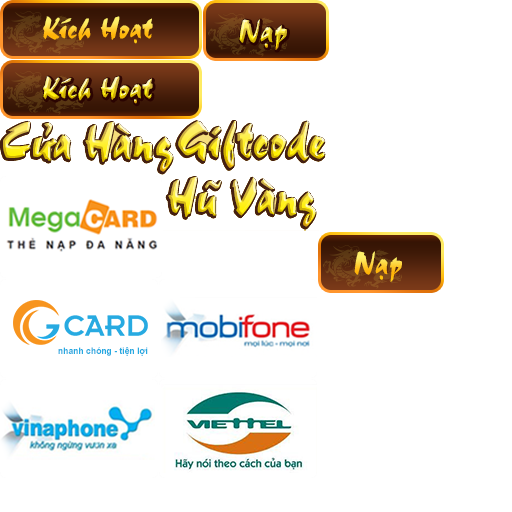
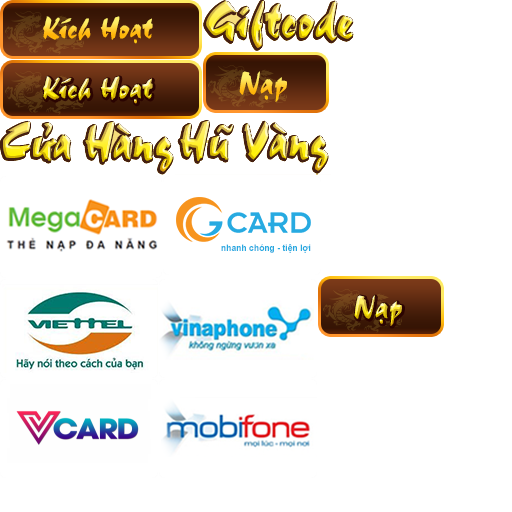
Add dynamic card to charge

Changed region(s): [[0.0, 0.0, 0.875, 0.7188], [0.0, 0.75, 0.625, 0.9375]]

diff --git a/Classes/MainScene.cpp b/Classes/MainScene.cpp
@@ -968,6 +968,7 @@ void MainScene::onChangeMoneyType(int type)
 
 void MainScene::initPopupCharge()
 {
+	strProviders = Utils::getSingleton().dynamicConfig.CashValue;
 	bool pmE = Utils::getSingleton().ispmE();
 
 	popupCharge = createPopup("title_naptien.png", true, true);
@@ -1044,7 +1045,6 @@ void MainScene::initPopupCharge()
 	ui::EditBox* tfSeri = ui::EditBox::create(Size(350, 55), "box.png", ui::Widget::TextureResType::PLIST);
 	ui::EditBox* tfCode = ui::EditBox::create(Size(350, 55), "box.png", ui::Widget::TextureResType::PLIST);
 	ui::ScrollView* scrollProvider = ui::ScrollView::create();
-	vector<string> strProviders = { "viettel", "mobifone", "vinaphone", "megacard", "gcard" };
 
 	int x = -420;
 	int y = 180;
@@ -1078,9 +1078,10 @@ void MainScene::initPopupCharge()
 					//popupCharge->getChildByName("providerimg" + to_string(i))->setVisible(true);
 				}
 			} else if (i == 1) {
+				scrollProvider->scrollToLeft(.3f, true);
 				scrollProvider->setVisible(true);
 				nodeMoneyType->setPosition(-220, 20);
-				for (int i = 1; i <= 3; i++) {
+				for (int i = 1; i <= 3 && i <= strProviders.size(); i++) {
 					scrollProvider->getChildByName("btn" + to_string(i))->setVisible(true);
 					//popupCharge->getChildByName("providerimg" + to_string(i))->setVisible(true);
 				}
@@ -1116,7 +1117,7 @@ void MainScene::initPopupCharge()
 	smsContent = Utils::getSingleton().replaceString(smsContent, "uid", to_string(Utils::getSingleton().userDataMe.UserID));
 	for (int i = 1; i <= strProviders.size(); i++) {
 		string stri = to_string(i);
-		string strimg = "provider" + stri + ".png";
+		string strimg = strProviders[i-1] + ".png";
 		/*Sprite* sp = Sprite::create();
 		if (textures.size() == 8) {
 			sp->initWithTexture(textures["provider" + stri + (i > 1 ? "_dark" : "")]);
@@ -1181,11 +1182,11 @@ void MainScene::initPopupCharge()
 				}*/
 			}
 
-			if (i == 4 || i == 5) {
+			if (i > 3) {
 				tfCode->setInputMode(ui::EditBox::InputMode::SINGLE_LINE);
 				tfSeri->setInputMode(ui::EditBox::InputMode::SINGLE_LINE);
 			} else {
-				if (btnIndexLast == 4 || btnIndexLast == 5) {
+				if (btnIndexLast > 3) {
 					tfCode->setText("");
 					tfSeri->setText("");
 				}
@@ -1202,7 +1203,7 @@ void MainScene::initPopupCharge()
 
 		xp += 170;
 	}
-
+	
 	vector<Label*> lbs;
 	vector<ui::CheckBox*> cbs;
 	for (int i = 0; i < 2; i++) {
@@ -1372,6 +1373,7 @@ void MainScene::initPopupCharge()
 	//btnCharge->setScale9Enabled(true);
 	btnCharge->setScale(.9f);
 	addTouchEventListener(btnCharge, [=]() {
+		if (strProviders.size() == 0) return;
 		string code = tfCode->getText();
 		string seri = tfSeri->getText();
 		if (code.length() == 0 || seri.length() == 0) return;
@@ -1463,8 +1465,9 @@ void MainScene::initPopupCharge()
 			//btnItemSms->setScale9Enabled(true);
 			btnItemSms->setScale(.9f);
 			addTouchEventListener(btnItemSms, [=]() {
+				if (strProviders.size() == 0) return;
 				int btnIndex;
-				for (int i = 1; i < 4; i++) {
+				for (int i = 1; i < strProviders.size(); i++) {
 					ui::Button* btn = (ui::Button*)scrollProvider->getChildByName("btn" + to_string(i));
 					if (btn->getTag() == 1) {
 						btnIndex = i;
@@ -2247,7 +2250,7 @@ void MainScene::checkProviderToCharge()
 {
 	int btnIndex = -1;
 	Node* scrollProvider = popupCharge->getChildByName("scrollprovider");
-	for (int i = 4; i <= 5; i++) {
+	for (int i = 4; i <= strProviders.size(); i++) {
 		Node* btni = scrollProvider->getChildByName("btn" + to_string(i));
 		if (btni->getTag() == 1) {
 			Node* btn1 = scrollProvider->getChildByName("btn1");
@@ -2261,7 +2264,7 @@ void MainScene::checkProviderToCharge()
 	}
 
 	if (btnIndex == -1) {
-		for (int i = 1; i <= 5; i++) {
+		for (int i = 1; i <= strProviders.size(); i++) {
 			ui::Button* btn = (ui::Button*)scrollProvider->getChildByName("btn" + to_string(i));
 			if (btn->getTag() == 1) {
 				btnIndex = i;
@@ -2303,7 +2306,7 @@ void MainScene::updateSmsInfo(bool isQuan)
 {
 	Node* scrollProvider = popupCharge->getChildByName("scrollprovider");
 	int btnIndex = 0;
-	for (int j = 1; j <= 5; j++) {
+	for (int j = 1; j <= strProviders.size(); j++) {
 		string strj = to_string(j);
 		ui::Button* btn = (ui::Button*)scrollProvider->getChildByName("btn" + strj);
 		if (btn->getTag() == 1) {

diff --git a/Classes/SFSResponse.cpp b/Classes/SFSResponse.cpp
@@ -1210,6 +1210,10 @@ void SFSResponse::onPopupEventResponse(boost::shared_ptr<ISFSObject> isfsObject)
 		if (d.FindMember("KICH") != d.MemberEnd()) {
 			std::string str = d["KICH"].GetString();
 			config.Kick = str.compare("1") == 0;
+		} else config.Kick = false;
+		if (d.FindMember("CASH_VALUE") != d.MemberEnd()) {
+			std::string str = d["CASH_VALUE"].GetString();
+			Utils::getSingleton().split(str, ',', config.CashValue);
 		}
 	}
 	Utils::getSingleton().dynamicConfig = config;

diff --git a/Classes/MainScene.h b/Classes/MainScene.h
@@ -74,5 +74,6 @@ private:
 	std::map<std::string, cocos2d::Texture2D*> textures;
 	std::vector<int> moneys = { 10, 20, 50, 100, 200, 500 };
 	std::vector<int> moneyxs = { 50, 100, 250, 500, 1000, 2500 };
+	std::vector<std::string> strProviders;
 };
 

diff --git a/Classes/Data.h b/Classes/Data.h
@@ -392,6 +392,7 @@ struct DynamicConfig
 	bool Kick;
 	bool Popup;
 	std::string PopupUrl;
+	std::vector<std::string> CashValue;
 };
 
 struct AppellationData
